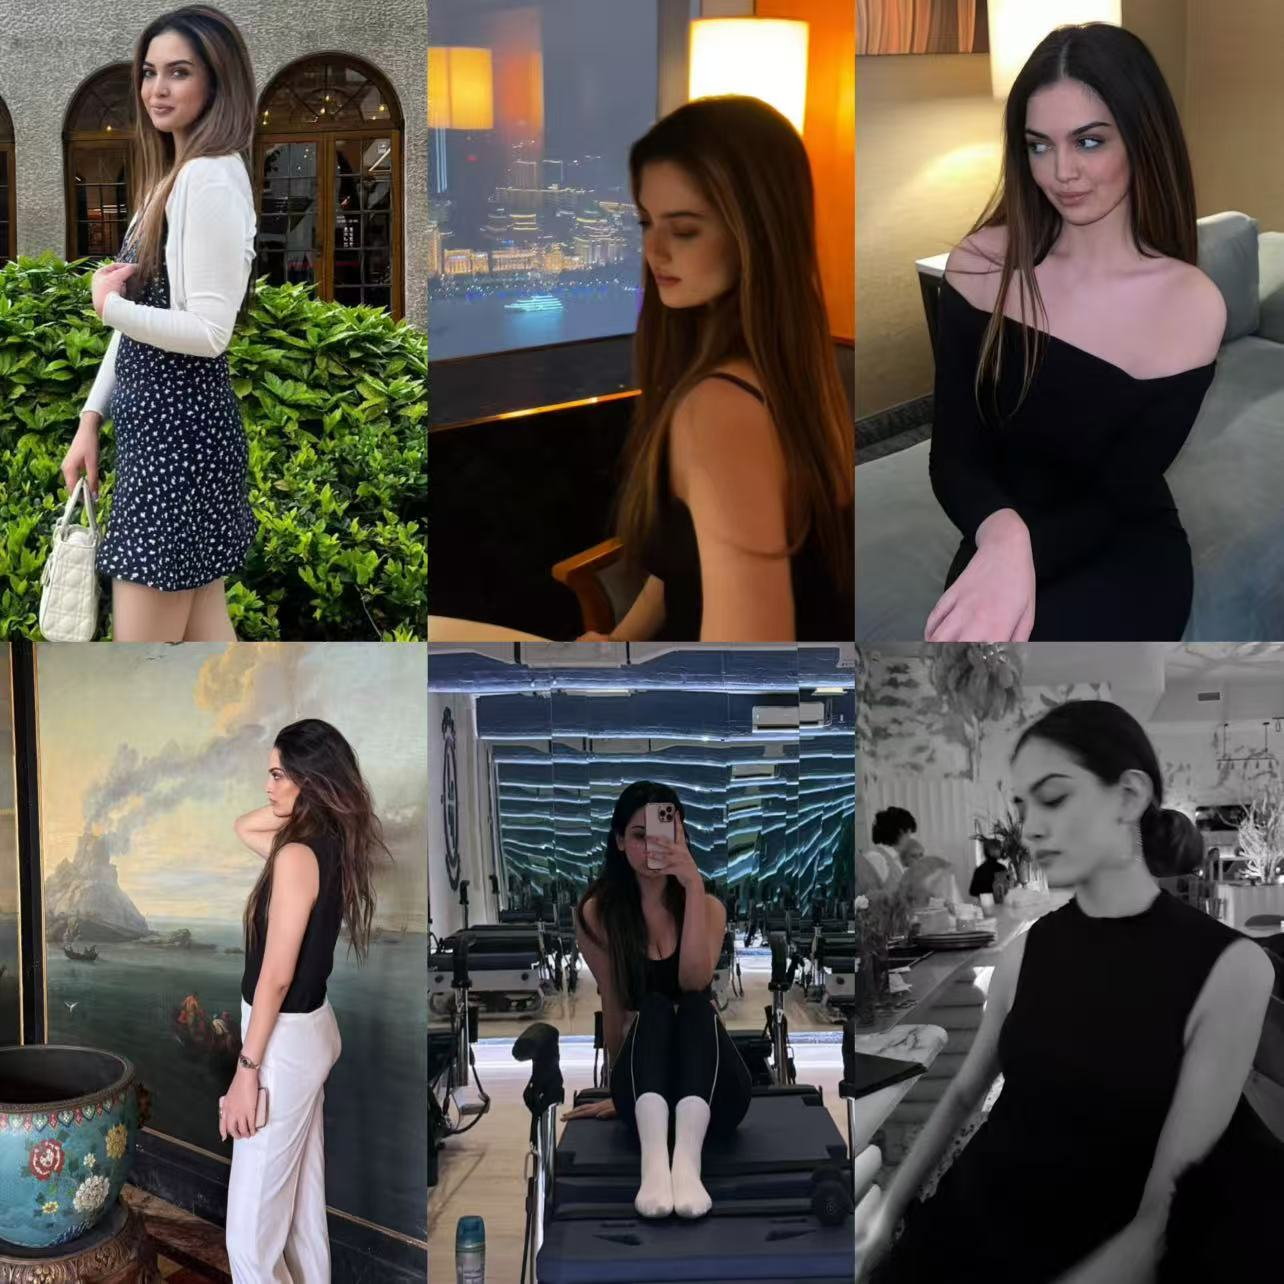
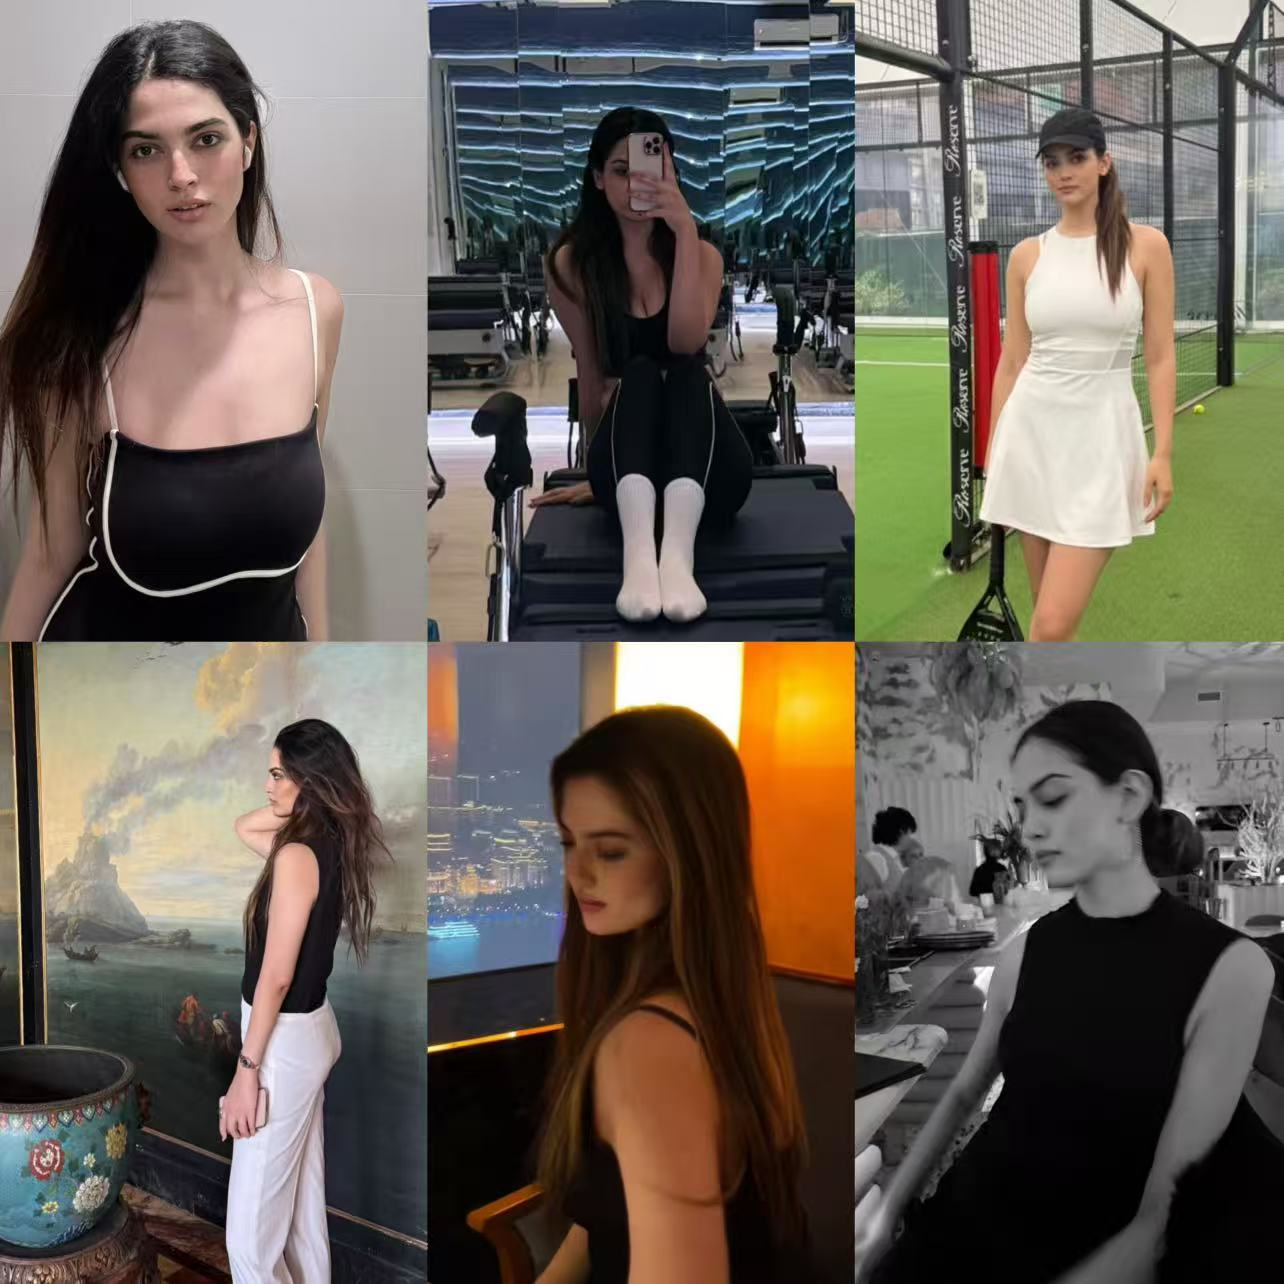
Changes

diff --git a/src/components/About.tsx b/src/components/About.tsx
@@ -69,27 +69,13 @@ export const About = () => {
               Beyond Work
             </h3>
             
-            <div className="grid grid-cols-1 lg:grid-cols-2 gap-12 items-center">
+            <div className="grid grid-cols-1 lg:grid-cols-2 gap-16 items-center">
               <motion.div
-                initial={{ opacity: 0, scale: 0.95 }}
-                whileInView={{ opacity: 1, scale: 1 }}
-                viewport={{ once: true }}
-                transition={{ duration: 0.8, delay: 0.2 }}
-                className="relative overflow-hidden rounded-lg"
-              >
-                <img 
-                  src={lifestyleCollage} 
-                  alt="Fashion, art galleries, fitness, and social moments" 
-                  className="w-full h-auto object-cover"
-                />
-              </motion.div>
-
-              <motion.div
-                initial={{ opacity: 0, x: 40 }}
+                initial={{ opacity: 0, x: -40 }}
                 whileInView={{ opacity: 1, x: 0 }}
                 viewport={{ once: true }}
-                transition={{ duration: 0.8, delay: 0.3 }}
-                className="space-y-4 text-lg leading-relaxed text-muted-foreground"
+                transition={{ duration: 0.8, delay: 0.2 }}
+                className="space-y-6 text-lg leading-relaxed text-muted-foreground"
               >
                 <p>
                   Outside of design, Shanze is passionate about fashion, fitness, and exploring creative expressions. She finds balance through regular gym sessions, discovering art galleries, and spending quality time with friends.
@@ -97,6 +83,30 @@ export const About = () => {
                 <p>
                   These interests inform her design sensibility, bringing diverse perspectives to her work and keeping her connected to how people experience the world beyond screens.
                 </p>
+              </motion.div>
+
+              <motion.div
+                initial={{ opacity: 0, scale: 0.95 }}
+                whileInView={{ opacity: 1, scale: 1 }}
+                viewport={{ once: true }}
+                transition={{ duration: 0.8, delay: 0.3 }}
+                className="relative"
+              >
+                <div className="relative overflow-hidden rounded-sm">
+                  <img 
+                    src={lifestyleCollage} 
+                    alt="Fashion, art galleries, fitness, and social moments" 
+                    className="w-full h-auto object-cover"
+                  />
+                  <div className="absolute inset-0 bg-gradient-to-tr from-background/5 via-transparent to-transparent pointer-events-none" />
+                </div>
+                <motion.div
+                  className="absolute -bottom-6 -left-6 w-40 h-40 bg-primary/5 -z-10 rounded-sm"
+                  initial={{ opacity: 0, x: -20, y: 20 }}
+                  whileInView={{ opacity: 1, x: 0, y: 0 }}
+                  viewport={{ once: true }}
+                  transition={{ delay: 0.5, duration: 0.8 }}
+                />
               </motion.div>
             </div>
           </motion.div>
